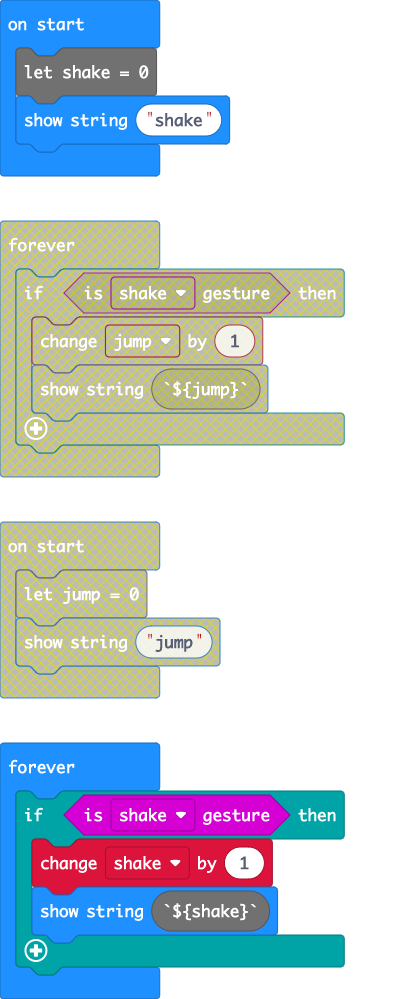
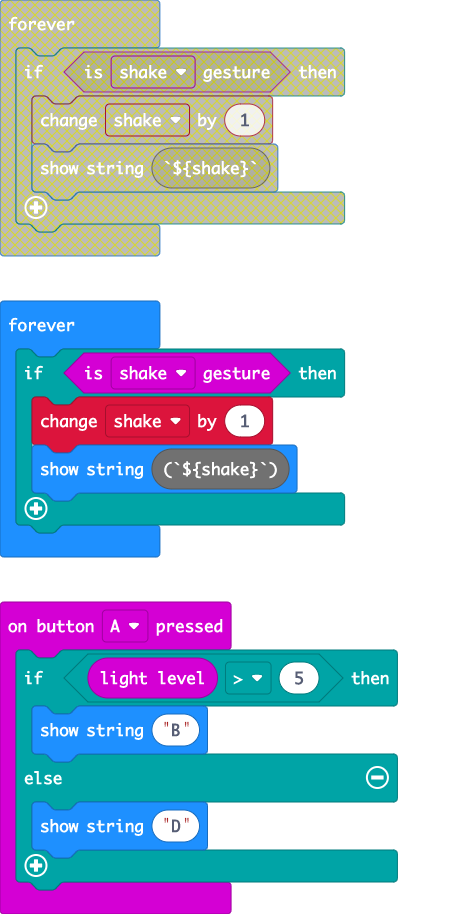
Light Level Check

diff --git a/main.ts b/main.ts
@@ -1,3 +1,10 @@
+input.onButtonPressed(Button.A, function () {
+    if (input.lightLevel() > 5) {
+        basic.showString("B")
+    } else {
+        basic.showString("D")
+    }
+})
 let shake = 0
 basic.showString("shake")
 basic.forever(function () {
